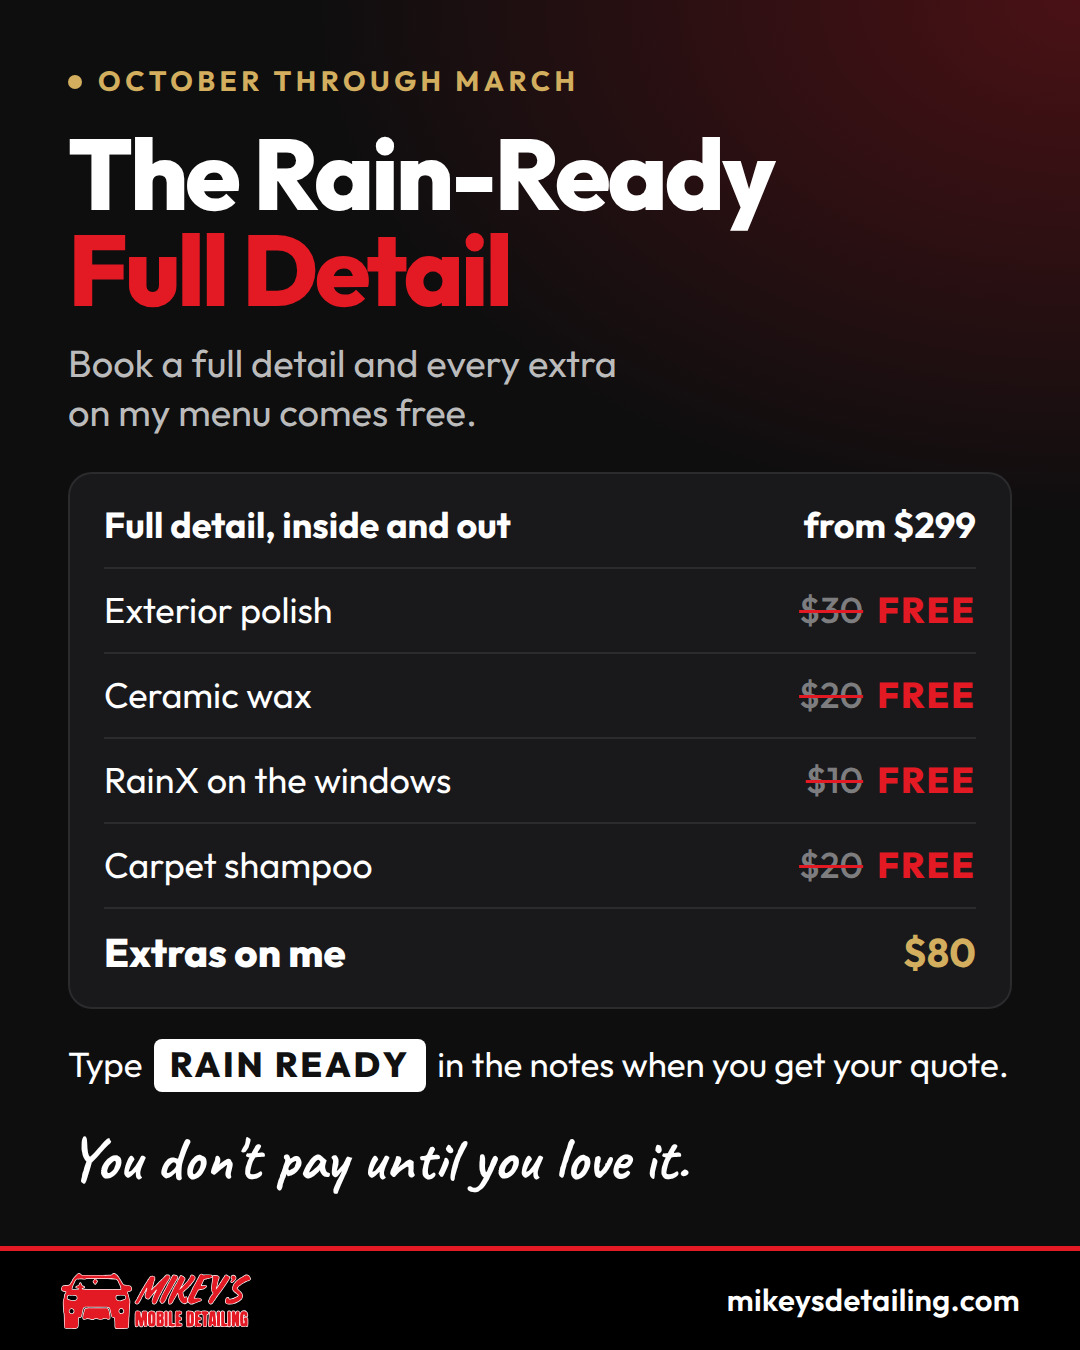
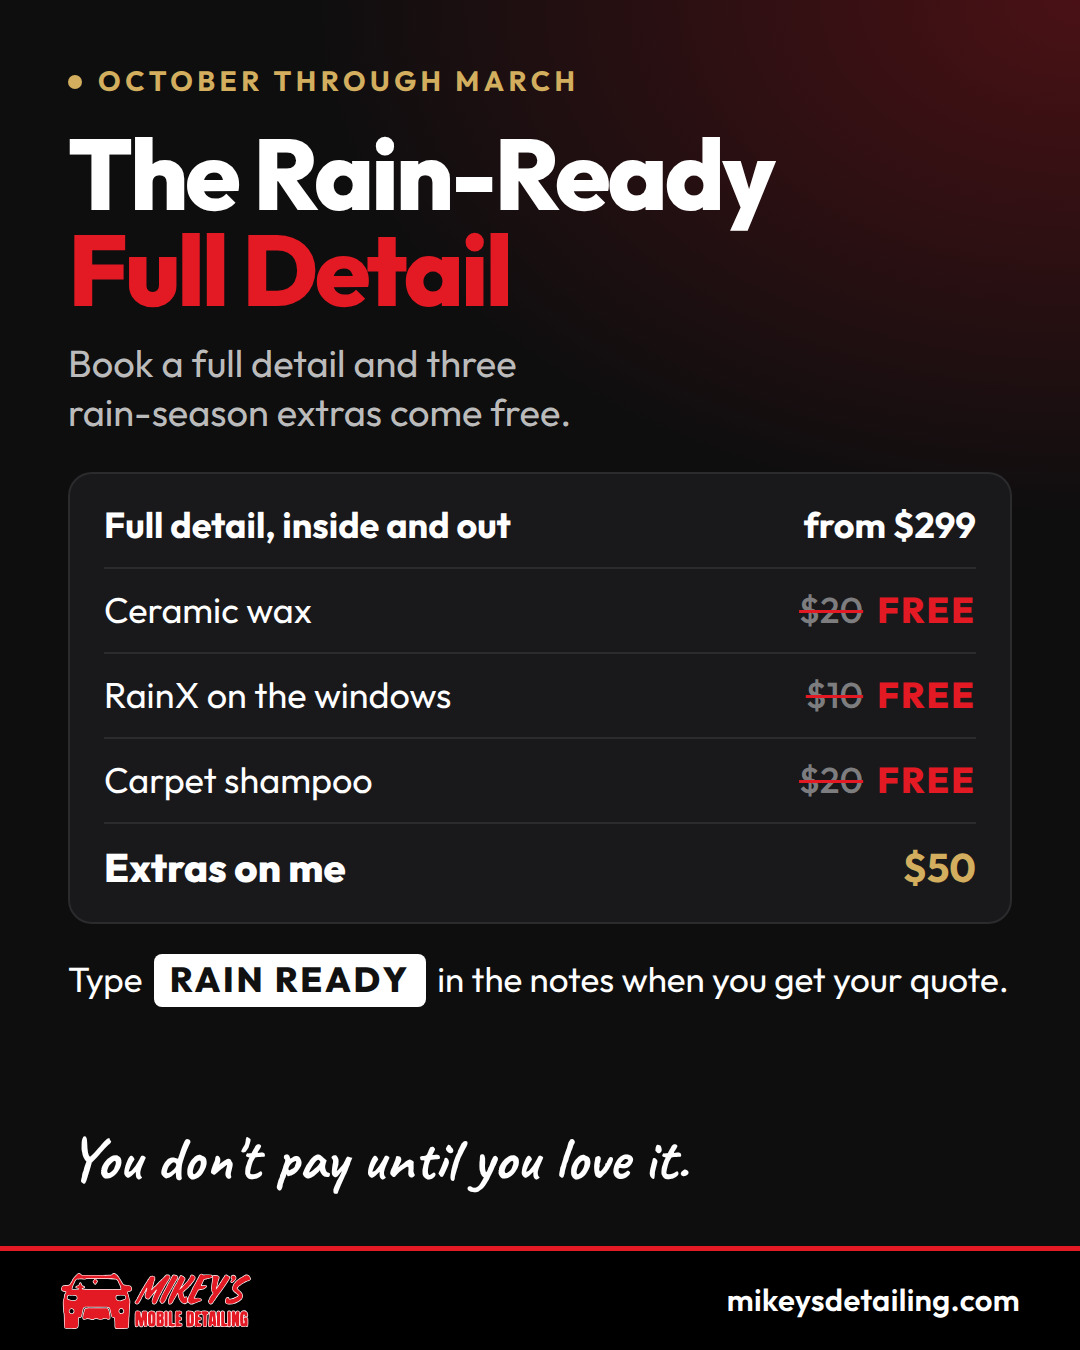
Apply the social plan decisions and fix the false "I bring water" line (#94)
From a grilling session with Mikey on 2026-09-25.

Site:
- about/: "I bring everything with me: water, power tools..." was false. The
  customer provides the spigot and the outlet. Now "I bring the tools:
  extraction, polishers, power tools and product". It was the only copy on
  the site.
- CLAUDE.md: the colon example in the voice rules was "I bring everything:
  water, power, extraction", which likely taught the About page that line.
  Replaced, with a note that water and power are never ours to claim.

Social (not served):
- Rain-Ready offer (B07) is now the $50 version: ceramic wax, RainX and
  carpet shampoo free; polish stays paid. Caption says "from $299" instead of
  a range, so it can't contradict the calculator.
- B14: the Honda Pilot photo, which Mikey confirmed is a customer's garage,
  plate blurred, as "Driveway or garage. I work where your car is."
- PLAYBOOK.md: goal order (proof first, strangers later), the weekly mix
  once photos flow (before/after as a lesson + tip + flexible), the weekly
  batch and approval rule, and what posts never say (days, licensed/insured,
  water/power, per-size prices).
- Open list: get insured; the calculator vs advertised price mismatch and
  the site's "7 days, 8am to 8pm", both recorded as on hold by Mikey's call.

Prices were deliberately not touched anywhere.

Claude-Session: https://claude.ai/code/session_01DBGuRxntCUVNHZtjUAmtWp

diff --git a/about/index.html b/about/index.html
@@ -879,8 +879,8 @@ a:hover { text-decoration: underline; }
     <div class="policy-section">
       <h2>Why mobile instead of a shop</h2>
       <p>A detail takes a few hours. Dropping your car at a shop means arranging a ride there,
-      a ride back, and losing most of a day. I bring everything with me: water, power tools,
-      extraction, polishers, product, and work in your driveway while you get on with your day.
+      a ride back, and losing most of a day. I bring the tools: extraction, polishers,
+      power tools and product, and work in your driveway while you get on with your day.
       You need an outdoor spigot and a power outlet within reach. You don't need to be home;
       plenty of customers leave the keys and come back to a finished car.</p>
       <p>It also means I can work in apartment lots and office parking, which matters around

diff --git a/social/PLAYBOOK.md b/social/PLAYBOOK.md
@@ -96,10 +96,15 @@ bio", Facebook has the actual link and no hashtags).
 
 ## 3. The offer: the Rain-Ready Full Detail
 
-> **Book a full detail between October and March and every extra on my menu
-> comes free:** exterior polish ($30), ceramic wax ($20), RainX on the windows
-> ($10), carpet shampoo ($20). **$80 of extras.** To get it, type **RAIN READY**
-> in the notes box of the quote, or text it to (425) 600-7897.
+> **Book a full detail between October and March and three rain-season extras
+> come free:** ceramic wax ($20), RainX on the windows ($10), carpet shampoo
+> ($20). **$50 of extras.** Exterior polish stays paid. To get it, type **RAIN
+> READY** in the notes box of the quote, or text it to (425) 600-7897.
+
+Decided 2026-09-25: the $50 version, not the original $80 one with polish.
+Polish is the slow one, and a promise you can keep on a slammed Saturday beats
+a bigger one you start to resent. Polish can be added later if bookings are
+slow; taking it away later would look bad.
 
 It's bank post **B07**. It does **not** go up at launch: people who've never
 heard of you don't want an offer from you yet. Post it no earlier than week 5,
@@ -109,8 +114,7 @@ after a month of tips, and never right after another ask.
 
 This is a real promise to real customers, so it's the one thing in here that
 needs your yes. What it costs you: nothing off the full detail price, roughly
-an extra hour of work per offer car (polish is most of that), and a little
-product. If that's not OK, just never post B07. Nothing else depends on it.
+20 to 30 minutes of extra work per offer car, and a little product. If that's not OK, just never post B07. Nothing else depends on it.
 
 ### Why this offer (the Hormozi logic)
 
@@ -128,13 +132,12 @@ adding value, not cutting price.** His value equation:
 
 The rest of his checklist:
 
-- **Bonuses, not a discount.** Knocking $80 off tells people your price was
-  padded. Giving $80 of extras keeps the full detail price whole and makes it
+- **Bonuses, not a discount.** Knocking $50 off tells people your price was
+  padded. Giving $50 of extras keeps the full detail price whole and makes it
   look like more.
-- **Cheap for you to deliver, valuable to them.** All four are things you
-  already carry and already sell. Each one solves a rain-season problem: dull
-  paint, water sitting on the paint, a windshield you can't see through,
-  muddy carpets.
+- **Cheap for you to deliver, valuable to them.** All three are things you
+  already carry and already sell. Each one solves a rain-season problem: water sitting on the paint, a
+  windshield you can't see through, muddy carpets.
 - **Real scarcity:** 12 cars a week. It's the one scarcity claim the site
   makes, so it's the only one the posts make.
 - **Real urgency:** the rain season window. Named, not a fake countdown. The
@@ -147,7 +150,7 @@ The rest of his checklist:
   bookings came from social.
 
 It's also deliberately smaller than the old free exterior offer. That one gave
-away a whole $160 service. This one gives away $80 of extras on your
+away a whole $160 service. This one gives away $50 of extras on your
 highest-priced job.
 
 ### Honoring it
@@ -156,9 +159,9 @@ highest-priced job.
   wrote or texted **RAIN READY**.
 - If they also ticked some of the extras in the quote calculator, don't charge
   for those extras.
-- Busy weeks: don't quietly drop the polish. If the offer gets more popular
+- Busy weeks: don't quietly drop an extra. If the offer gets more popular
   than your schedule can take, post that it's closed and stop posting B07.
-- **After March 31, stop posting it.** For summer, the same four-extra bundle
+- **After March 31, stop posting it.** For summer, the same three-extra bundle
   can come back as a "Road-Trip Ready Full Detail" (bugs, tree sap, summer
   dust) if you want it.
 
@@ -182,8 +185,41 @@ they come to you, not in the feed.
 Saves and comments are what Instagram uses to decide who else sees a post,
 and a question gets people talking to you, which is where bookings start.
 
+**The goal, in order** (decided 2026-09-25): first, **proof** for people who
+already heard of you and look you up before booking. Later, reaching strangers.
+
 **The weekly rhythm:** three posts a week, on three days you can keep (for
 example Tuesday, Thursday, Sunday). Evenings tend to be when people scroll.
+Once job photos are coming in, each week is:
+
+1. **One before/after, told as a lesson**: what was wrong, what I did and in
+   what order. Proof and value in the same post.
+2. **One tip** (the built tip carousels cover about 8 weeks of these).
+3. **One flexible**: a story, a myth, a review, or the week's ask if it's due.
+
+Weeks 1 and 2 stay as built, since there are no new photos yet.
+
+### How a week gets made
+
+- **Every job:** before/after photos (section 6), into the Drive folder the
+  same night.
+- **Once a week** (e.g. Sunday night): tell Claude "new photos are in Drive".
+  Claude builds next week's 3 posts from the photos, your story answers and the
+  bank. You look them over in the Post Kit and schedule all 3 in Meta Business
+  Suite. About 20 minutes.
+- **Approval:** for the first month you approve every post. After that, only
+  posts that make a promise (offers, prices, anything about availability).
+- **Stories** (the 24-hour kind) are the exception: post them straight from
+  the driveway, unplanned.
+
+### Things posts never say
+
+- **Days or hours.** Your schedule changes week to week. Openings posts say
+  "I've got a couple of spots this week, message me", never a day.
+- **Licensed or insured.** Not yet true, so it appears nowhere until it is.
+- **That you bring water or power.** The customer provides both.
+- **Exact per-size prices.** Use "from $299, exact price in 60 seconds". See
+  the price note in section 11 before touching any price.
 
 **Tip posts are carousels** (5 to 7 slides: a hook, one tip per slide, a
 sign-off). They're the most saved format on Instagram, and they don't need a
@@ -235,7 +271,8 @@ That's 11 posts that give and 1 that asks.
 driveways, B02 to B05 and B12, B13 reviews (no more than one every two weeks),
 B06 how often to detail, **B07 the Rain-Ready offer ⚠ your yes first**, B08
 cargo before/after, B09 how booking works, B10 spigot and an outlet, B11 the
-map of your 12 towns.
+map of your 12 towns, B14 driveway or garage (the Pilot, in a customer's
+garage).
 
 After week 4, story answers and new job photos keep it going (section 6).
 
@@ -364,11 +401,24 @@ you work** and **whether you're licensed and insured.**
 
 - [ ] Your yes (or no) on the Rain-Ready offer before B07 goes up.
 - [ ] Answers in the Story questions doc, whenever you have ten minutes.
+- [ ] **Get insured**: general liability plus garagekeepers ("care, custody
+      and control") coverage, from an agent who insures mobile detailers. Check
+      WA business licensing with the Department of Revenue. Then tell Claude,
+      and it becomes a trust line in the bio, a post and the site.
+- [ ] **Price mismatch, on hold by Mikey's call (2026-09-25). Don't fix
+      without asking him.** The quote calculator (the source of truth) charges
+      base + $20 SUV/truck or $40 van/XL + $30 Needs Work or $60 War Zone, so
+      full runs $299 to $399, interior $200 to $300, exterior $160 to $260. The
+      site advertises $299 to $379 ("$339 SUV / $379 truck"), $200 to $280 and
+      $160 to $240, and the homepage chooser shows a $260 / $160 / $130
+      ballpark. Posts avoid the problem by saying "from $299".
+- [ ] **Site says 7 days, 8am to 8pm** (schema and terms page). Mikey's
+      schedule changes week to week; should read "by appointment". On hold
+      until he says to change it.
 - [ ] Which days you work, and licensed/insured: both stay out until confirmed.
 - [ ] New photos into the Drive folder, whenever you can.
-- [ ] The Honda Pilot photo on the website (`images/unnamed (5).webp`) was left
-      out of social on purpose: it's in a shop bay next to a Jeep with its hood
-      up, which reads as a garage and works against "I come to you".
+- [x] The Honda Pilot photo is a customer's garage (confirmed). It stays on
+      the site and is bank post B14.
 
 ---
 

diff --git a/social/CAPTIONS.md b/social/CAPTIONS.md
@@ -692,15 +692,14 @@ Exact price for your car in 60 seconds: mikeysdetailing.com
 ```
 The Rain-Ready Full Detail. Runs October through March.
 
-Book a full detail and every extra on my menu comes free:
-Exterior polish ($30)
+Book a full detail and three rain-season extras come free:
 Ceramic wax ($20)
 RainX on the windows ($10)
 Carpet shampoo ($20)
 
-That's $80 of extras on me. You pay the normal full detail price, $299 to $379 depending on the vehicle, and you don't pay anything until we've walked around the car and you love it.
+That's $50 of extras on me, on top of the normal full detail (from $299, exact price in 60 seconds). And you don't pay anything until we've walked around the car and you love it.
 
-Why these four: polish brings back paint that's gone dull, ceramic wax makes the rain bead up and roll off, RainX helps rain clear off the windshield, and carpet shampoo deals with the mud and wet boots winter brings in.
+Why these three: ceramic wax makes the rain bead up and roll off the paint, RainX helps rain clear off the windshield, and carpet shampoo deals with the mud and wet boots winter brings in.
 
 How to get it: get your quote on my site and type RAIN READY in the notes box. Or text me at (425) 600-7897 and say RAIN READY.
 
@@ -714,15 +713,14 @@ I take 12 cars a week, so book early if you want a specific day.
 ```
 The Rain-Ready Full Detail. Runs October through March.
 
-Book a full detail and every extra on my menu comes free:
-Exterior polish ($30)
+Book a full detail and three rain-season extras come free:
 Ceramic wax ($20)
 RainX on the windows ($10)
 Carpet shampoo ($20)
 
-That's $80 of extras on me. You pay the normal full detail price, $299 to $379 depending on the vehicle, and you don't pay anything until we've walked around the car and you love it.
+That's $50 of extras on me, on top of the normal full detail (from $299, exact price in 60 seconds). And you don't pay anything until we've walked around the car and you love it.
 
-Why these four: polish brings back paint that's gone dull, ceramic wax makes the rain bead up and roll off, RainX helps rain clear off the windshield, and carpet shampoo deals with the mud and wet boots winter brings in.
+Why these three: ceramic wax makes the rain bead up and roll off the paint, RainX helps rain clear off the windshield, and carpet shampoo deals with the mud and wet boots winter brings in.
 
 How to get it: get your quote at mikeysdetailing.com and type RAIN READY in the notes box. Or text me at (425) 600-7897 and say RAIN READY.
 
@@ -731,7 +729,7 @@ I take 12 cars a week, so book early if you want a specific day.
 
 **Alt text** (Instagram: Advanced settings → Accessibility)
 
-> Offer graphic: The Rain-Ready Full Detail, October through March. Full detail from $299, plus exterior polish ($30), ceramic wax ($20), RainX on the windows ($10) and carpet shampoo ($20), all free. Type RAIN READY in the notes when you get your quote. You don't pay until you love it.
+> Offer graphic: The Rain-Ready Full Detail, October through March. Full detail from $299, plus ceramic wax ($20), RainX on the windows ($10) and carpet shampoo ($20), all free. Type RAIN READY in the notes when you get your quote. You don't pay until you love it.
 
 ### B08 · Cargo area before/after
 
@@ -944,4 +942,35 @@ Exact price for your car in 60 seconds: mikeysdetailing.com
 **Alt text** (Instagram: Advanced settings → Accessibility)
 
 > Five-star customer review: We first hired Mikey to detail our truck before selling it. He did a great job so we had him come back for our other 3 vehicles.
+
+### B14 · Driveway or garage
+
+**Image:** `posts/B14.jpg`  
+**Type:** Story
+
+**Instagram**
+
+```
+No, that's not my shop. It's a customer's garage.
+
+I don't have a shop. I come to wherever your car lives: the driveway, the garage, wherever it's parked. All I need is an outdoor spigot and a power outlet within reach, and I bring the rest.
+
+Where does your car live? Tell me below.
+
+#mobiledetailing #snohomishcounty #cardetailing #garagelife #pnw
+```
+
+**Facebook**
+
+```
+No, that's not my shop. It's a customer's garage.
+
+I don't have a shop. I come to wherever your car lives: the driveway, the garage, wherever it's parked. All I need is an outdoor spigot and a power outlet within reach, and I bring the rest.
+
+Where does your car live? Tell me below.
+```
+
+**Alt text** (Instagram: Advanced settings → Accessibility)
+
+> A grey Honda Pilot parked in a customer's garage, with another car in the next bay. Text: Driveway or garage. I work where your car is.
 

diff --git a/CLAUDE.md b/CLAUDE.md
@@ -82,7 +82,7 @@ Rules that follow from that:
   |---|---|
   | joining two whole sentences | a full stop. "Yes. I'm in Everett most weeks." |
   | an aside inside one sentence | a comma. "Bigger vehicles take more time, so I want your estimate accurate." |
-  | introducing a list | a colon. "I bring everything: water, power, extraction." |
+  | introducing a list | a colon. "I bring the tools: extractor, polisher, product." (Never "water" or "power": the customer provides both.) |
   | a true parenthetical | brackets. "I run a real trade (300+ cars, 5.0 stars) on this system." |
   | separating a title | the pipe. "Mobile Car Detailing Snohomish, WA \| See Your Price Now" |
 
